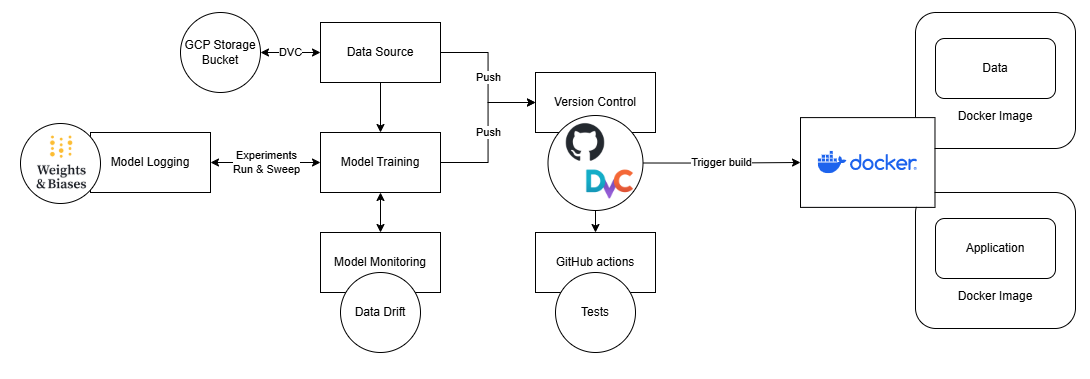
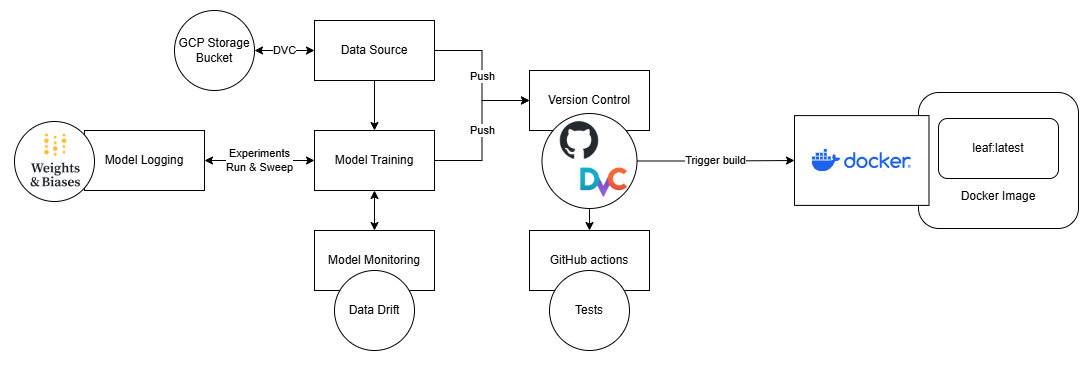
edited readme

diff --git a/reports/README.md b/reports/README.md
@@ -250,8 +250,8 @@ We have implemented 4 tests. For the model we test that the outputs have the rig
 >
 > Answer:
 
-The code coverage of the data and model source code is 100% for both.
-Even though the coverage says that we have 100% we would not trust our code to be error free. The coverage looks for how much of the code is being executed during testing. Therefore, the test is only covering some scenarios/cases and not all the possibilities that can happen.
+The code coverage of the data and model source code is 100% for both tests.
+Even though the coverage says that we have 100% we would not trust our code to be error free. The coverage looks for how much of the code is being executed at least once during testing. Therefore, the test is only covering some scenarios/cases and not all the possibilities and edge cases that can happen. It is also not validating the logic behind our code or the overall correct performance and interaction of several components as one system. Also, not all possible error conditions can be tested. 
 
 ### Question 9
 
@@ -586,9 +586,6 @@ We explored how time changes when the different woker number of the CPU is imple
 
 Due to the size of the dataset, it requires few time for the CPU to load everything into the dataloder method therefore usually the time cost between the different worker numbers is less than 0.5s, however, the time cost changes rapidly from worker number is equal to 1 to worker number is equal to 2 and only slight waved when number increase after 2. In summary, distributed data loading can reduce the time cost in the data loading efficiently but it is more adopted in the massive datasets, for small datasets the implementation of the distributed data loading can only bring slight improvement at begining and keep stable after a specific number of workers. 
 
-We did not implemented anything extra.
-
-
 ### Question 29
 
 > **Include a figure that describes the overall architecture of your system and what services that you make use of.**
@@ -607,9 +604,9 @@ We did not implemented anything extra.
 ![my_image](figures/overview.png)
 
 The general workflow of our MLOPs pipeline is displayed in the overview figure.
-Our diagram starts in the data source point. The data (containing two csv-files and a lot of images) is versioned via DVC and sent to a Google Cloud Platform Storage Bucket. We also use the data for training the model. The model is also versioned with Git Hub. It is also used for experiments for logging some important metrics with weights & biases. There is an option to sweep over several parameters or run the experiments with different parameters. We also tried to monitor our model by looking at the Data Drift, but as it was more complex to use images the monitoring is an additional feature that would be helpful to implement.
-When a new code gets pushed (after adding and committing) to the main branch on GitHub some actions start. Our actions are testing out different python versions on different operating systems. With a push there will also be a Trigger activated that builds two Docker Images. One for the data and one for the application to run the whole model.
-For using our pipeline it is enough to clone the code from Git, pull the data from DVC and pull the docker images in order to get started locally.
+Our diagram starts in the data source point. The data (containing two csv-files and a lot of images) is versioned via DVC and sent to a Google Cloud Platform Storage Bucket. We also use the data for training the model. The model is also versioned with Git Hub. It is also used for experiments for logging some important metrics with weights & biases. There is an option to sweep over several parameters or run the experiments with different parameters. We also tried to monitor our model by looking at the Data Drift, but as it was more complex to use images the monitoring is an additional feature that would be helpful to implement in the future.
+When a new code gets pushed (after adding and committing) to the main branch on GitHub some actions start. Our actions are testing out different python versions on different operating systems. With a push there will also be a Trigger activated that builds a Docker Image called leaf:latest.
+For using our pipeline, it is enough to clone the code from Git, pull the data from DVC and pull the docker images in order to get started locally.
 
 ### Question 30
 
